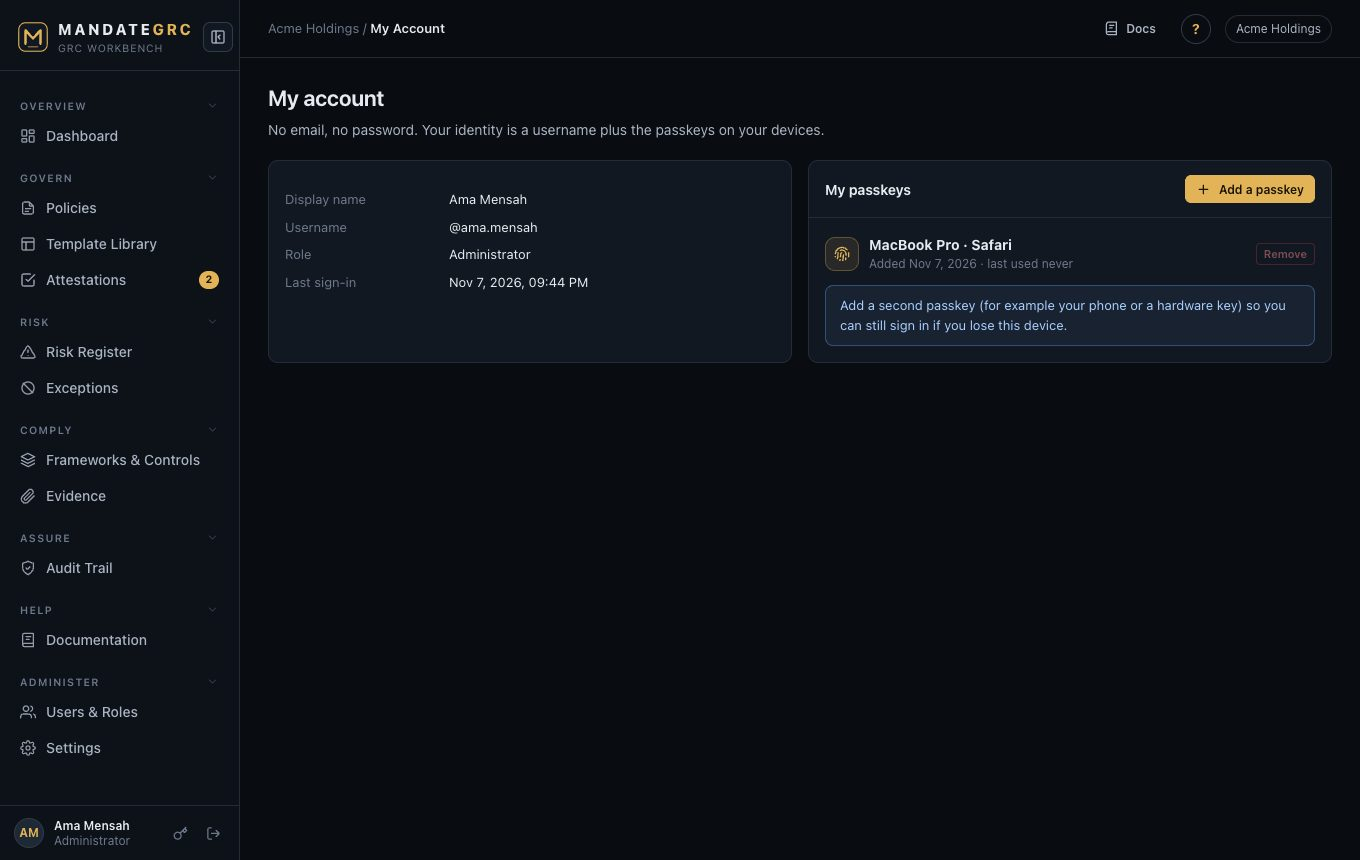
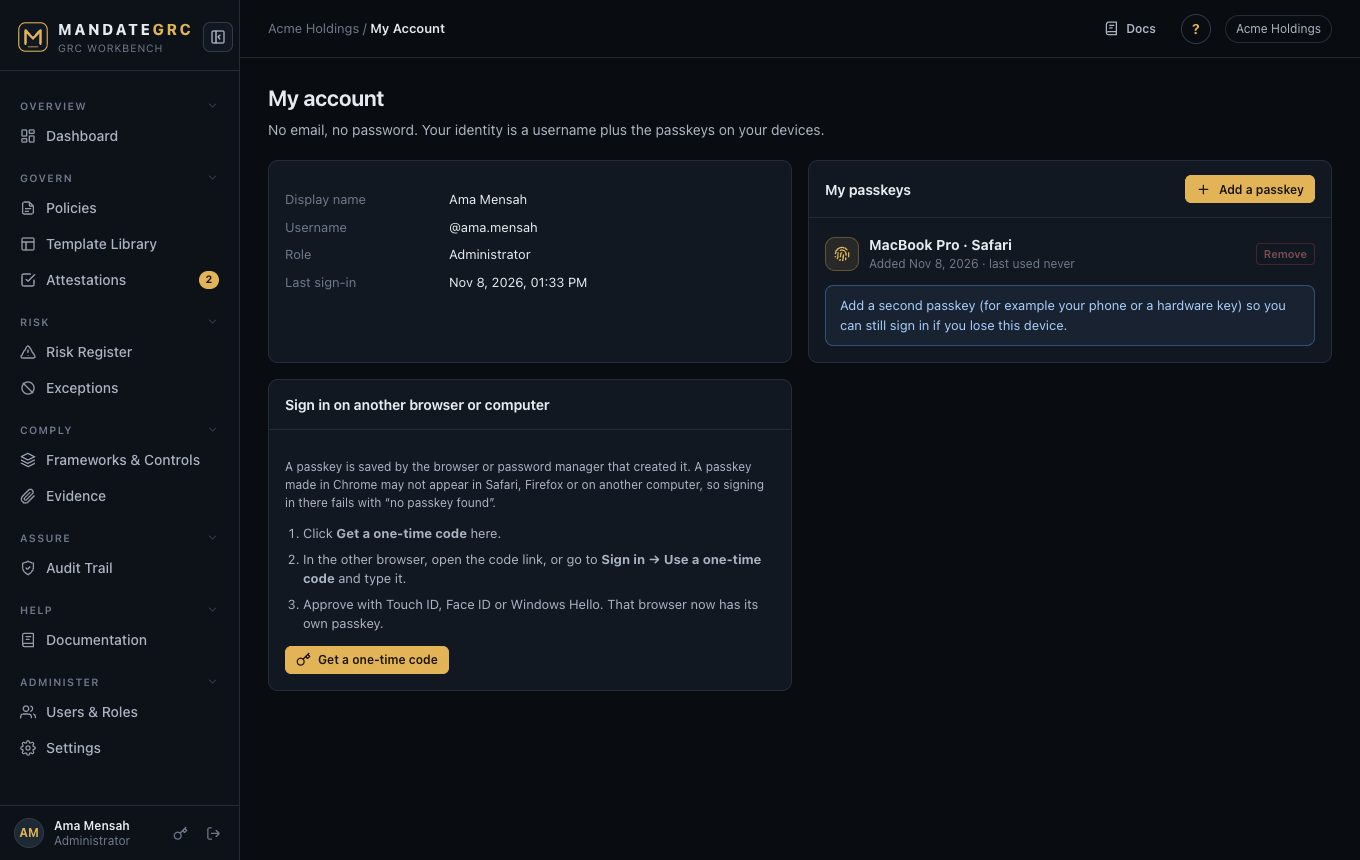
Sign in from another browser; explain passkey failures
Passkeys stay in the browser or password manager that created them, so
signing in from a different browser found no passkey.

- My account: get a one-time code (15 minutes, single use, stored
  hashed) and redeem it in the other browser to create a passkey there
- Sign-in page: explain why no passkey came up and list the options
  (retry, phone QR, one-time code, admin recovery), plus a direct
  "Use a one-time code" link
- Passkey creation failures distinguish an instant browser refusal from
  a closed prompt, and show the browser's own error
- Warn that DuckDuckGo's browser does not support passkeys
- Docs, FAQ, screenshots, and an end-to-end browser test with a virtual
  authenticator

diff --git a/public/js/public.js b/public/js/public.js
@@ -1,7 +1,7 @@
 // Public site for mandategrc.app: landing page, passkey sign-in and registration, privacy policy, terms.
 import { html, raw, mount, $, $$, on, api, state, icon, LOGO, ring } from './core.js';
 import { renderDocs } from './docs.js';
-import { passkeysSupported, ipHost, createPasskey, getPasskey, passkeyError, deviceLabel, prefetcher } from './passkey.js';
+import { passkeysSupported, passkeyUnsupportedBrowser, ipHost, createPasskey, getPasskey, passkeyError, refusedInstantly, deviceLabel, prefetcher } from './passkey.js';
 
 export const PUBLIC_ROUTES = ['/', '/login', '/register', '/privacy', '/terms'];
 const DOMAIN = 'mandategrc.app';
@@ -225,7 +225,44 @@ function hostWarning() {
   return html`<div class="notice warn small">Passkeys don't work on IP addresses. Open <a href="${url}">${url}</a> instead.</div>`;
 }
 function supportWarning() {
+  const named = passkeyUnsupportedBrowser();
+  if (named) return html`<div class="notice bad small">${named}'s browser doesn't support passkeys yet, so it can't create or use one. Open MandateGRC in Safari, Chrome, Edge or Firefox.</div>`;
   return passkeysSupported() ? '' : html`<div class="notice bad small">This browser doesn't support passkeys. Use a current version of Safari, Chrome, Edge or Firefox.</div>`;
+}
+
+// Shown when creating a passkey fails. A refusal within a moment means the browser never showed a
+// prompt; a later one means the prompt was closed or timed out.
+function createHelp(err) {
+  if (!(err instanceof DOMException)) return html`<div class="notice bad small">${err.message}</div>`;
+  if (err.name !== 'NotAllowedError') return html`<div class="notice bad small">${passkeyError(err)}</div>`;
+  const instant = refusedInstantly(err);
+  return html`<div class="auth-help">
+    <b>${instant ? 'Your browser refused to create a passkey without showing a prompt.' : 'The passkey prompt was closed before it finished.'}</b>
+    <ol>${instant ? html`
+      <li><b>Using DuckDuckGo, or another browser without passkey support?</b> Open MandateGRC in Safari, Chrome, Edge or Firefox.</li>
+      <li><b>Private or incognito window?</b> Some browsers can't save passkeys there. Use a normal window.</li>
+      <li><b>Passkeys turned off?</b> In Chrome, check that the Google Password Manager is on; in Firefox, update to the latest version. Safari and Chrome on a Mac work best.</li>
+      <li><b>Click the button itself</b> with this tab and window in front, then wait for the prompt.</li>`
+      : html`
+      <li>Click <b>Create passkey</b> again and approve with Touch ID, Face ID or Windows Hello.</li>
+      <li>If the browser asks <i>where</i> to save it, choose iCloud Keychain, Google Password Manager or “this device”. All work.</li>
+      <li>No fingerprint reader? Choose <i>Use a phone or tablet</i> and scan the QR code to save the passkey on your phone.</li>
+      <li>The prompt closes itself after two minutes. Approve it promptly.</li>`}
+    </ol>
+    <small class="muted">Browser said: ${err.name}${err.message ? `: ${err.message}` : ''}${typeof err.elapsedMs === 'number' ? ` (after ${(err.elapsedMs / 1000).toFixed(1)} s)` : ''}</small></div>`;
+}
+
+// Shown when the passkey prompt is cancelled or finds no passkey in this browser.
+function noPasskeyHelp() {
+  return html`<div class="auth-help">
+    <b>No passkey came up, or the request was cancelled.</b>
+    <p>A passkey is saved by the browser or password manager that created it. If you created yours in another browser (for example Chrome) it will not appear here (for example in Safari or Firefox).</p>
+    <ol>
+      <li><b>Cancelled by mistake?</b> Click <b>Sign in with passkey</b> again and approve.</li>
+      <li><b>Passkey on your phone?</b> Click <b>Sign in with passkey</b>, choose <i>Use a phone or tablet</i> (or <i>another device</i>), and scan the QR code.</li>
+      <li><b>Passkey in another browser?</b> Sign in there, open <b>My account → Sign in on another browser</b>, get a one-time code, and <a href="#/register?code=">enter it here</a>. This browser gets its own passkey.</li>
+      <li><b>Lost every passkey?</b> Ask your workspace administrator for a recovery code.</li>
+    </ol></div>`;
 }
 
 export function loginPage(root, { message, onSignedIn } = {}) {
@@ -240,6 +277,7 @@ export function loginPage(root, { message, onSignedIn } = {}) {
       <details class="auth-more"><summary>Using a security key or another device?</summary>
         <label class="f"><span>Username <em>(optional hint)</em></span><input id="pk-user" autocomplete="username webauthn" maxlength="32" placeholder="your-username"></label>
       </details>
+      <p class="auth-alt">New browser or computer? <a href="#/register?code=" id="to-link">Use a one-time code</a></p>
       <p class="auth-alt">New here? <a href="#/register">Create a free workspace</a></p>
       <p class="auth-fine">${icon('lock')} No password is ever created or stored.</p>
     </div></section>`);
@@ -264,7 +302,10 @@ export function loginPage(root, { message, onSignedIn } = {}) {
       .then((credential) => api('POST', '/api/auth/login/verify', { challengeId: opts.challengeId, credential }))
       .then(async (r) => { state.csrf = r.csrf; state.me = r.user; await onSignedIn?.(); })
       .catch((err) => {
-        mount($('#auth-msg', root), html`<div class="notice bad small">${err instanceof DOMException ? passkeyError(err) : err.message}</div>`);
+        // NotAllowedError also covers "this browser has no passkey for this site", which is what
+        // happens in a browser other than the one where the passkey was created.
+        const none = err instanceof DOMException && err.name === 'NotAllowedError';
+        mount($('#auth-msg', root), none ? noPasskeyHelp() : html`<div class="notice bad small">${err instanceof DOMException ? passkeyError(err) : err.message}</div>`);
         pf.refresh();
       })
       .finally(() => { btn.disabled = false; btn.classList.remove('busy'); });
@@ -311,7 +352,7 @@ export async function registerPage(root, { onSignedIn } = {}) {
           <button class="btn primary lg block" type="submit">${icon('fingerprint')} Create passkey &amp; workspace</button>
         </form>
         <div id="auth-msg"></div>
-        <p class="auth-alt">Joining a team, or recovering access? <a href="#" id="to-code">Enter an invite or recovery code</a></p>
+        <p class="auth-alt">Joining a team, adding a new browser, or recovering access? <a href="#" id="to-code">Enter a code</a></p>
         <p class="auth-alt">Already have a passkey? <a href="#/login">Sign in</a></p>
         <p class="auth-fine">${icon('lock')} Your biometric stays on your device. We store only a public key.</p>`);
       const form = $('#pk-form', root);
@@ -337,7 +378,7 @@ export async function registerPage(root, { onSignedIn } = {}) {
             sample: form.elements.namedItem('sample').checked,
           }))
           .then(done)
-          .catch((err) => { msg(err instanceof DOMException ? passkeyError(err) : err.message); btn.disabled = false; pf.refresh(); });
+          .catch((err) => { mount($('#auth-msg', root), createHelp(err)); btn.disabled = false; pf.refresh(); });
       });
       return;
     }
@@ -345,10 +386,10 @@ export async function registerPage(root, { onSignedIn } = {}) {
     if (mode === 'code') {
       mount($('#reg', root), html`
         <div class="reg-steps"><span class="on">1 · Code</span><i></i><span>2 · Passkey</span></div>
-        <h1>Join with a code</h1>
-        <p class="dim">Enter the invite your administrator sent you, or a recovery code if you lost your passkey.</p>
+        <h1>Enter your code</h1>
+        <p class="dim">Enter the invite your administrator sent you, a one-time code from <b>My account</b> in a browser where you are signed in, or a recovery code if you lost your passkeys.</p>
         <form id="code-form" class="stack">
-          <label class="f"><span>Invite or recovery code</span><input id="code" class="code-input" value="${preset}" placeholder="XXXXX-XXXXX-XXXXX-XXXXX" autocomplete="one-time-code" maxlength="40" required autofocus></label>
+          <label class="f"><span>Invite, one-time or recovery code</span><input id="code" class="code-input" value="${preset}" placeholder="XXXXX-XXXXX-XXXXX-XXXXX" autocomplete="one-time-code" maxlength="40" required autofocus></label>
           <button class="btn primary lg block" type="submit">Continue ${icon('arrow')}</button>
         </form>
         <div id="auth-msg"></div>
@@ -363,11 +404,12 @@ export async function registerPage(root, { onSignedIn } = {}) {
     }
 
     // mode === 'redeem'
-    const join = invite.purpose === 'join';
+    const join = invite.purpose === 'join', link = invite.purpose === 'link';
     mount($('#reg', root), html`
       <div class="reg-steps"><span class="on">1 · Code</span><i></i><span class="on">2 · Passkey</span></div>
-      <h1>${join ? `Join ${invite.org || 'the workspace'}` : 'Recover your account'}</h1>
+      <h1>${join ? `Join ${invite.org || 'the workspace'}` : link ? 'Add this browser' : 'Recover your account'}</h1>
       <p class="dim">${join ? html`You're joining as <b>${roleName(invite.role)}</b>. Choose a username. No email or password needed.`
+        : link ? html`This code is for <b>@${invite.username}</b>. Create a passkey in this browser, and you can sign in here from now on.`
         : html`This code is for <b>@${invite.username}</b>. Create a new passkey on this device to regain access.`}</p>
       <form id="pk-form" class="stack" novalidate>
         ${join ? html`
@@ -395,7 +437,7 @@ export async function registerPage(root, { onSignedIn } = {}) {
       createPasskey(opts.publicKey)
         .then((credential) => api('POST', '/api/auth/register/verify', { challengeId: opts.challengeId, credential, label: field('label'), username: field('username'), name: field('display_name') }))
         .then(done)
-        .catch((err) => { msg(err instanceof DOMException ? passkeyError(err) : err.message); btn.disabled = false; pf.refresh(); });
+        .catch((err) => { mount($('#auth-msg', root), createHelp(err)); btn.disabled = false; pf.refresh(); });
     });
   };
 

diff --git a/public/js/views/admin.js b/public/js/views/admin.js
@@ -26,6 +26,40 @@ function codeDialog(title, intro, code, expires) {
   });
 }
 
+// A short-lived code that lets this user add a passkey in another browser.
+function linkCodeDialog({ code, expires_at }, onClosed) {
+  const link = `${location.origin}/#/register?code=${encodeURIComponent(code)}`;
+  let timer;
+  modal({
+    title: 'Add another browser',
+    body: html`<div class="stack">
+      <p class="dim">In the other browser or computer, open the link below, or go to <b>Sign in → Use a one-time code</b> and type the code. Then approve with Touch ID, Face ID or Windows Hello to create a passkey there.</p>
+      <div class="secret" id="lc">${code}</div>
+      <label class="f"><span>Link for the other browser</span><input readonly value="${link}" id="lnk"></label>
+      <div class="row small"><span class="muted" id="lc-left"></span><span class="muted right">Works once, for @${state.me.username} only.</span></div>
+      <div class="notice warn small">${icon('lock')}<span>Anyone with this code can add a passkey to your account until it expires. Use it yourself; do not send it to anyone.</span></div></div>`,
+    footer: html`<button class="btn ghost" data-cancel-code>Cancel code</button><button class="btn" data-copy="code">Copy code</button><button class="btn" data-copy="link">${icon('link')} Copy link</button><button class="btn primary" data-close>Done</button>`,
+    onMount: ({ el, close }) => {
+      const left = $('#lc-left', el);
+      const tick = () => {
+        const ms = new Date(expires_at) - Date.now();
+        if (ms <= 0) { clearInterval(timer); left.textContent = 'Expired. Close this and get a new code.'; $('#lc', el).classList.add('expired'); return; }
+        const m = Math.floor(ms / 60000), sec = Math.floor((ms % 60000) / 1000);
+        left.textContent = `Expires in ${m}:${String(sec).padStart(2, '0')}`;
+      };
+      tick(); timer = setInterval(tick, 1000);
+      on(el, 'click', '[data-copy]', async (e, b) => {
+        const v = b.dataset.copy === 'code' ? code : link;
+        try { await navigator.clipboard.writeText(v); toast(b.dataset.copy === 'code' ? 'Code copied.' : 'Link copied.'); } catch { $('#lnk', el).select(); }
+      });
+      on(el, 'click', '[data-cancel-code]', async () => {
+        try { await DEL('/api/auth/link-code'); toast('Code cancelled. It can no longer be used.'); close(); } catch (err) { fail(err); }
+      });
+    },
+    onClose: () => { clearInterval(timer); onClosed?.(); },
+  });
+}
+
 export async function usersView(el) {
   let [users, invites] = await Promise.all([GET('/api/users'), GET('/api/invites')]);
   const draw = () => mount(el, html`
@@ -169,6 +203,16 @@ export async function accountView(el) {
             <button class="btn xs danger right" data-rm="${k.id}" ${keys.length <= 1 ? 'disabled title="You need at least one passkey"' : ''}>Remove</button></div>`)}
           ${keys.length < 2 ? html`<div class="notice info small">Add a second passkey (for example your phone or a hardware key) so you can still sign in if you lose this device.</div>` : ''}
         </div></div>
+      <div class="card link-card"><div class="card-h"><h3>Sign in on another browser or computer</h3></div>
+        <div class="card-b stack">
+          <p class="dim small">A passkey is saved by the browser or password manager that created it. A passkey made in Chrome may not appear in Safari, Firefox or on another computer, so signing in there fails with “no passkey found”.</p>
+          <ol class="link-steps">
+            <li>Click <b>Get a one-time code</b> here.</li>
+            <li>In the other browser, open the code link, or go to <b>Sign in → Use a one-time code</b> and type it.</li>
+            <li>Approve with Touch ID, Face ID or Windows Hello. That browser now has its own passkey.</li>
+          </ol>
+          <div><button class="btn primary sm" id="link-code">${icon('key')} Get a one-time code</button></div>
+        </div></div>
     </div>`);
   draw();
   // Prefetched so the passkey prompt runs directly inside the click (Safari requirement).
@@ -182,6 +226,10 @@ export async function accountView(el) {
       .then(async () => { toast('Passkey added.'); keys = await GET('/api/auth/passkeys'); draw(); })
       .catch((err) => { toast(err instanceof DOMException ? passkeyError(err) : err.message, 'err'); b.disabled = false; })
       .finally(() => pf.refresh());
+  });
+  on(el, 'click', '#link-code', async (e, b) => {
+    b.disabled = true;
+    try { linkCodeDialog(await POST('/api/auth/link-code'), async () => { keys = await GET('/api/auth/passkeys'); draw(); }); } catch (err) { fail(err); } finally { b.disabled = false; }
   });
   on(el, 'click', '[data-rm]', async (e, b) => {
     if (!(await confirmDialog({ title: 'Remove this passkey?', message: 'That device will no longer be able to sign in to MandateGRC.', confirm: 'Remove', danger: true }))) return;

diff --git a/public/js/docs-content.js b/public/js/docs-content.js
@@ -69,6 +69,15 @@ export const DOCS = [
         { t: 'Using a security key or another device?', d: 'Expand <b>Using a security key or another device?</b> and type your username first. MandateGRC then asks your browser for that account\'s passkey specifically.' },
       ] },
       { warn: 'Sessions end after 30 minutes of inactivity (your administrator can change this) and always after 8 hours. Just sign in again; your work is saved on the server.' },
+      { h: 'Signing in from a different browser or computer' },
+      { p: 'A passkey is saved by the browser or password manager that created it. A passkey made in Chrome is kept in your Google Password Manager; one made in Safari is kept in iCloud Keychain. So if you created your passkey in one browser and try to sign in from another, the browser finds no passkey and MandateGRC explains your options.' },
+      { figure: img('03b-no-passkey'), caption: 'What you see when the browser has no passkey for MandateGRC, or when the prompt was cancelled.' },
+      { steps: [
+        { t: 'In the browser you already use, get a one-time code', d: 'Sign in as usual, open <b>My account</b> and click <b>Get a one-time code</b> under <b>Sign in on another browser or computer</b>. The code works once and expires after 15 minutes.', img: img('48b-link-code') },
+        { t: 'In the new browser, enter the code', d: 'Open the code link, or click <b>Sign in</b> then <b>Use a one-time code</b> and type it. Click <b>Continue</b>.' },
+        { t: 'Create a passkey in the new browser', d: 'Click <b>Create passkey</b> and approve with Touch ID, Face ID or Windows Hello. You are signed in, and from now on this browser has its own passkey, listed under <b>My account</b>.', img: img('48c-link-redeem') },
+      ] },
+      { tip: 'If your passkey is on your phone, you don\'t need a code: click <b>Sign in with passkey</b>, choose <i>Use a phone or tablet</i>, and scan the QR code with your phone.' },
     ],
   },
   {
@@ -525,6 +534,7 @@ export const DOCS = [
         { t: 'Open My account', d: 'Click the key icon next to your name at the bottom of the sidebar.', img: img('48-account') },
         { t: 'Add a backup passkey', d: 'Click <b>Add a passkey</b> and approve on the device you want to add, such as your phone or a hardware security key. Keeping two passkeys means losing one device never locks you out.' },
         { t: 'Remove an old device', d: 'Click <b>Remove</b> next to a passkey you no longer use. You always need at least one.' },
+        { t: 'Sign in on another browser', d: 'Click <b>Get a one-time code</b> and enter it in the other browser to create a passkey there. See <a href="#/docs/sign-in">Sign in with a passkey</a> for the full steps.' },
       ] },
     ],
   },
@@ -548,6 +558,8 @@ export const DOCS = [
     summary: 'Answers to the questions people ask most.',
     blocks: [
       { faq: [
+        ['"The passkey request was cancelled" straight away, with no prompt', 'Your browser refused before showing a passkey prompt. Common causes: a browser without passkey support (such as DuckDuckGo for Mac), a private or incognito window, or the browser\'s password manager being turned off. Use a normal window in Safari, Chrome, Edge or Firefox.'],
+        ['"No passkey found" in a different browser', 'Passkeys stay in the browser or password manager that created them. In the browser where you are signed in, open <b>My account → Get a one-time code</b>, then enter it in the new browser (<b>Sign in → Use a one-time code</b>) to create a passkey there. If your passkey is on your phone, choose <i>Use a phone or tablet</i> in the prompt instead.'],
         ['How does auto-mapping decide which controls to suggest?', 'It recognises about a hundred common policy topics from the wording (incident response plans, triage, MFA, log retention, backups, supplier contracts and so on) and suggests the controls auditors expect for each, in the frameworks you choose. Anything it does not recognise is ranked by shared themes and words with the control titles. It runs in your browser with no AI service, and every suggestion waits for you to confirm it. If a statement gets no suggestion, the wording is too vague to match; map it with <b>Map controls</b>.'],
         ['"The passkey request was cancelled or timed out"', 'Click the button again and approve the prompt within two minutes. In Safari, make sure you click the button itself (not press Enter in another field). If you have no Touch ID, choose "Use phone or tablet" or a security key in the browser prompt.'],
         ['"Passkeys don\'t work on IP addresses"', 'Open MandateGRC by its name (mandategrc.app, or http://localhost when running it yourself), never by an IP address such as 127.0.0.1.'],

diff --git a/src/api.js b/src/api.js
@@ -240,7 +240,8 @@ route('POST', '/api/auth/invite', null, (ctx) => {
   const inv = loadInvite(ctx.body.code);
   const u = inv.user_id ? get('SELECT username, name FROM users WHERE id = ?', inv.user_id) : null;
   const org = get('SELECT name FROM orgs WHERE id = ?', inv.org_id);
-  return { purpose: inv.purpose, role: inv.role || null, org: org?.name, username: u?.username || null, name: u?.name || null, expires_at: inv.expires_at };
+  const link = inv.purpose === 'recover' && inv.created_by === inv.user_id; // self-issued: adding another browser
+  return { purpose: link ? 'link' : inv.purpose, role: inv.role || null, org: org?.name, username: u?.username || null, name: u?.name || null, expires_at: inv.expires_at };
 }, { public: true });
 
 route('POST', '/api/auth/register/options', null, (ctx) => {
@@ -263,7 +264,7 @@ route('POST', '/api/auth/register/verify', null, (ctx) => {
   tx(() => {
     const inv = get('SELECT * FROM invites WHERE code_hash = ?', ch.data.invite);
     if (!inv || inv.used_at || inv.expires_at < nowIso()) throw new HttpError(400, 'This code has already been used or has expired.');
-    purpose = inv.purpose;
+    purpose = inv.purpose === 'recover' && inv.created_by === inv.user_id ? 'link' : inv.purpose;
     if (inv.purpose === 'join') {
       const username = checkNewUsername(ctx.body.username);
       const name = str(ctx.body.name, { name: 'Display name', max: 80 }) || username;
@@ -325,6 +326,27 @@ route('POST', '/api/auth/onboarded', R.ANY, (ctx) => {
   const outcome = oneOf(ctx.body.outcome, ['completed', 'skipped'], { name: 'Outcome' });
   run('UPDATE users SET onboarded_at = COALESCE(onboarded_at, ?) WHERE id = ?', nowIso(), ctx.user.id);
   audit(ctx.actor, `onboarding.${outcome}`, 'user', ctx.user.id, { step: int(ctx.body.step, { name: 'Step', min: 0, max: 100, required: false, fallback: 0 }) });
+  return { ok: true };
+});
+
+// ----- Add another browser or device -----
+// Passkeys live in the browser or password manager that created them, so a new browser has none.
+// A signed-in user can issue a short-lived, single-use code for themselves and redeem it in the new
+// browser to create a passkey there. It reuses the recovery-code mechanism (stored hashed, one use).
+const LINK_MINUTES = 15;
+route('POST', '/api/auth/link-code', R.ANY, (ctx) => {
+  limit(ctx, 'link-code', 10, 'code requests');
+  const code = generateCode();
+  const expires = new Date(Date.now() + LINK_MINUTES * 60_000).toISOString();
+  tx(() => {
+    run("DELETE FROM invites WHERE user_id = ? AND created_by = ? AND purpose = 'recover' AND used_at IS NULL", ctx.user.id, ctx.user.id);
+    run('INSERT INTO invites(code_hash, org_id, purpose, user_id, created_by, expires_at) VALUES (?,?,?,?,?,?)', codeHash(code), ctx.user.org_id, 'recover', ctx.user.id, ctx.user.id, expires);
+  });
+  audit(ctx.actor, 'auth.link_code_issued', 'user', ctx.user.id, { minutes: LINK_MINUTES });
+  return { code, expires_at: expires, minutes: LINK_MINUTES };
+});
+route('DELETE', '/api/auth/link-code', R.ANY, (ctx) => {
+  run("DELETE FROM invites WHERE user_id = ? AND created_by = ? AND purpose = 'recover' AND used_at IS NULL", ctx.user.id, ctx.user.id);
   return { ok: true };
 });
 

diff --git a/public/js/passkey.js b/public/js/passkey.js
@@ -12,17 +12,33 @@ const toB64 = (buf) => {
 };
 
 export const passkeysSupported = () => !!(window.PublicKeyCredential && navigator.credentials?.create);
+// Browsers that expose the WebAuthn API but refuse every passkey request (no prompt is ever shown).
+// DuckDuckGo for Mac is built on Apple's WebKit view without passkey access.
+export const passkeyUnsupportedBrowser = () => (/\bDdg\/|DuckDuckGo/i.test(navigator.userAgent) ? 'DuckDuckGo' : null);
 export const ipHost = () => /^(\d+\.){3}\d+$|^\[.*\]$/.test(location.hostname);
 
+// How long the browser took to refuse tells "you closed the prompt" apart from "the browser never
+// showed one" (private window, passkeys turned off, page not focused), which need different advice.
+const timed = async (kind, fn) => {
+  const t0 = performance.now();
+  try { return await fn(); } catch (e) {
+    const ms = Math.round(performance.now() - t0);
+    try { e.elapsedMs = ms; e.kind = kind; } catch { /* frozen error object */ }
+    console.warn(`[passkey] ${kind} failed after ${ms} ms: ${e?.name}: ${e?.message}`);
+    throw e;
+  }
+};
+export const refusedInstantly = (e) => e?.name === 'NotAllowedError' && typeof e.elapsedMs === 'number' && e.elapsedMs < 1500;
+
 export async function createPasskey(publicKey) {
-  const cred = await navigator.credentials.create({
+  const cred = await timed('create', () => navigator.credentials.create({
     publicKey: {
       ...publicKey,
       challenge: toBuf(publicKey.challenge),
       user: { ...publicKey.user, id: toBuf(publicKey.user.id) },
       excludeCredentials: (publicKey.excludeCredentials || []).map((c) => ({ ...c, id: toBuf(c.id) })),
     },
-  });
+  }));
   return {
     id: cred.id,
     clientDataJSON: toB64(cred.response.clientDataJSON),
@@ -32,13 +48,13 @@ export async function createPasskey(publicKey) {
 }
 
 export async function getPasskey(publicKey) {
-  const cred = await navigator.credentials.get({
+  const cred = await timed('get', () => navigator.credentials.get({
     publicKey: {
       ...publicKey,
       challenge: toBuf(publicKey.challenge),
       allowCredentials: (publicKey.allowCredentials || []).map((c) => ({ ...c, id: toBuf(c.id) })),
     },
-  });
+  }));
   return {
     id: cred.id,
     clientDataJSON: toB64(cred.response.clientDataJSON),

diff --git a/public/css/app.css b/public/css/app.css
@@ -739,3 +739,13 @@ textarea.fx-done { animation: fx-done 1.2s ease-out; }
   .amd-o { grid-template-columns: 18px 1fr auto; }
   .amd-o .am-t { grid-column: 2 / -1; }
 }
+
+/* ---------- Passkey in another browser: help and one-time codes ---------- */
+.auth-help { text-align: left; font-size: 12.5px; line-height: 1.5; color: var(--text-2); background: rgba(226, 180, 87, .06); border: 1px solid rgba(226, 180, 87, .35); border-radius: 10px; padding: 12px 14px; }
+.auth-help > b { color: var(--text); display: block; margin-bottom: 4px; }
+.auth-help p { margin: 0 0 8px; }
+.auth-help ol { margin: 0; padding-left: 18px; display: grid; gap: 6px; }
+.auth-help a { color: var(--gold); }
+.link-steps { margin: 0; padding-left: 18px; display: grid; gap: 6px; font-size: 13px; color: var(--text-2); }
+.secret.expired { color: var(--muted); border-color: var(--border-2); text-decoration: line-through; }
+.auth-help small { display: block; margin-top: 8px; font-size: 11px; overflow-wrap: anywhere; }
